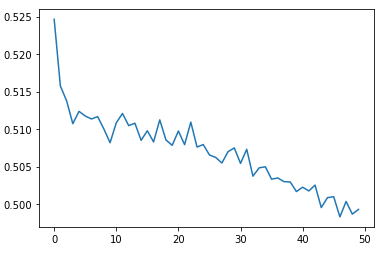
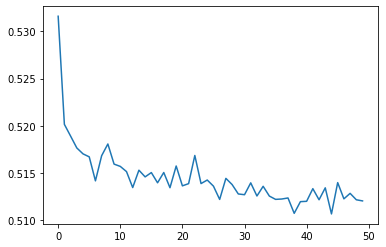
updated layer counts for loss plots

Changed region(s): [[0.0, 0.0, 0.9791, 0.9919]]

diff --git a/README.md b/README.md
@@ -35,24 +35,24 @@ Training data should be placed at `data/train.csv`. The training data CSV used b
 
 The following are loss vs. epoch plots for the classifier's training stages:
 
-Binary Classifier (2 Layers with Batch Normalization)
-
-<p float="left" align="center">
-  <img src="readme_assets/loss_vs_epoch_plot_bc2lbn.png" width="375" height="250"/>
-</p>
-
 Binary Classifier (3 Layers with Batch Normalization)
-
 
 <p float="left" align="center">
   <img src="readme_assets/loss_vs_epoch_plot_bc3lbn.png" width="375" height="250"/>
 </p>
 
-Binary Classifier (2 Layers without Batch Normalization)
+Binary Classifier (4 Layers with Batch Normalization)
 
 
 <p float="left" align="center">
-  <img src="readme_assets/loss_vs_epoch_plot_bc2l.png" width="375" height="250"/>
+  <img src="readme_assets/loss_vs_epoch_plot_bc4lbn.png" width="375" height="250"/>
+</p>
+
+Binary Classifier (3 Layers without Batch Normalization)
+
+
+<p float="left" align="center">
+  <img src="readme_assets/loss_vs_epoch_plot_bc3l.png" width="375" height="250"/>
 </p>
 
 LSTM Binary Classifier (3 LSTM layers, 2 FC layers)
